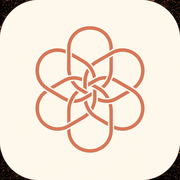
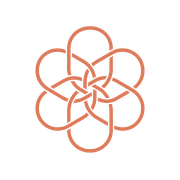
chore: 프레젠테이션·아이콘 자산 업데이트 + 분석 이력 데이터 동기화
- personafit_presentation.html: 영상 재생 버튼 호버/액티브 효과 + 슬라이드 정렬 조정
- 파비콘·아이콘·브랜드 마크 PNG 최적화(용량 감소)
- data/analyses.jsonl: 운영 중 누적된 분석 이력 반영

🤖 Generated with [Claude Code](https://claude.com/claude-code)

diff --git a/personafit_presentation.html b/personafit_presentation.html
@@ -598,6 +598,18 @@
       min-width: 60px;
       text-align: center;
     }
+    
+    /* Premium Video Play Button Hover Effect */
+    #btn-play-video {
+      transition: all 0.3s cubic-bezier(0.16, 1, 0.3, 1) !important;
+    }
+    #btn-play-video:hover {
+      transform: translateY(-2px) scale(1.03);
+      box-shadow: 0 8px 25px rgba(217, 119, 87, 0.35) !important;
+    }
+    #btn-play-video:active {
+      transform: translateY(0) scale(0.98);
+    }
   </style>
 </head>
 <body>
@@ -669,11 +681,15 @@
 
     <!-- Slide 3: Nemotron-Personas-Korea Dataset -->
     <section class="slide" id="slide-3">
-      <div class="slide-header">
+      <div class="slide-header" style="align-items: center;">
         <div>
           <div class="slide-tag">NVIDIA Nemotron-Personas-Korea Baseline</div>
           <h2 class="slide-title">100만 명의 대한민국 거울 자아, <span>가상 페르소나란?</span></h2>
         </div>
+        <!-- 럭셔리 그라디언트 플레이 버튼 -->
+        <button id="btn-play-video" style="background: var(--gradient-primary); border: none; color: var(--bg-snow); padding: 0.8rem 1.6rem; border-radius: 50px; font-weight: 700; cursor: pointer; display: flex; align-items: center; gap: 0.6rem; box-shadow: 0 4px 15px rgba(217, 119, 87, 0.25); font-size: 0.95rem; transition: var(--transition-slide); margin-top: 0.5rem; outline: none; font-family: inherit;">
+          <span style="font-size: 1.1rem; line-height: 1;">▶</span> 시연 영상 재생
+        </button>
       </div>
       <div class="slide-body" style="gap: 1.5rem;">
         <div class="grid-2" style="gap: 2rem; align-items: start; height: auto;">
@@ -1030,6 +1046,8 @@
       // 4. Keyboard Shortcuts Binding
       window.addEventListener("keydown", (e) => {
         if (e.key === "ArrowRight" || e.key === " ") {
+          // 비디오 모달이 열려있을 때는 슬라이드 넘김 무시
+          if (document.getElementById("video-modal").style.display === "flex") return;
           e.preventDefault();
           if (currentIdx < totalSlides - 1) {
             goToSlide(currentIdx + 1);
@@ -1037,13 +1055,59 @@
             goToSlide(0);
           }
         } else if (e.key === "ArrowLeft") {
+          if (document.getElementById("video-modal").style.display === "flex") return;
           e.preventDefault();
           if (currentIdx > 0) {
             goToSlide(currentIdx - 1);
           }
         }
       });
+
+      // 5. Video Modal Controller
+      const playBtn = document.getElementById("btn-play-video");
+      const videoModal = document.getElementById("video-modal");
+      const video = document.getElementById("presentation-video");
+      const closeBtn = document.getElementById("close-video");
+
+      if (playBtn && videoModal && video && closeBtn) {
+        playBtn.addEventListener("click", () => {
+          videoModal.style.display = "flex";
+          setTimeout(() => {
+            videoModal.style.opacity = "1";
+            video.play().catch(err => console.log("Auto-play blocked or failed", err));
+          }, 50);
+        });
+
+        const closeModal = () => {
+          video.pause();
+          video.currentTime = 0;
+          videoModal.style.opacity = "0";
+          setTimeout(() => {
+            videoModal.style.display = "none";
+          }, 400);
+        };
+
+        closeBtn.addEventListener("click", closeModal);
+        videoModal.addEventListener("click", (e) => {
+          if (e.target === videoModal) closeModal();
+        });
+
+        // ESC 키로 모달 닫기
+        window.addEventListener("keydown", (e) => {
+          if (e.key === "Escape" && videoModal.style.display === "flex") {
+            closeModal();
+          }
+        });
+      }
     });
   </script>
+
+  <!-- Video Modal Overlay (Glassmorphism & Terra Accent) -->
+  <div id="video-modal" style="display: none; position: fixed; top: 0; left: 0; width: 100vw; height: 100vh; background: rgba(31, 30, 29, 0.85); backdrop-filter: blur(10px); z-index: 1000; align-items: center; justify-content: center; opacity: 0; transition: opacity 0.4s ease;">
+    <div style="position: relative; width: 80%; max-width: 960px; aspect-ratio: 16/9; background: #000; border-radius: 20px; overflow: hidden; box-shadow: 0 25px 50px -12px rgba(0, 0, 0, 0.5); border: 1px solid rgba(255,255,255,0.1);">
+      <video id="presentation-video" src="ai-qa.mp4" controls style="width: 100%; height: 100%; object-fit: contain;"></video>
+      <button id="close-video" style="position: absolute; top: 20px; right: 20px; background: rgba(255,255,255,0.2); border: none; color: #fff; width: 44px; height: 44px; border-radius: 50%; cursor: pointer; font-size: 1.4rem; display: flex; align-items: center; justify-content: center; backdrop-filter: blur(5px); transition: all 0.3s; z-index: 1010;" onmouseover="this.style.background='rgba(255,255,255,0.3)'; this.style.transform='scale(1.05)'" onmouseout="this.style.background='rgba(255,255,255,0.2)'; this.style.transform='scale(1)'">✕</button>
+    </div>
+  </div>
 </body>
 </html>